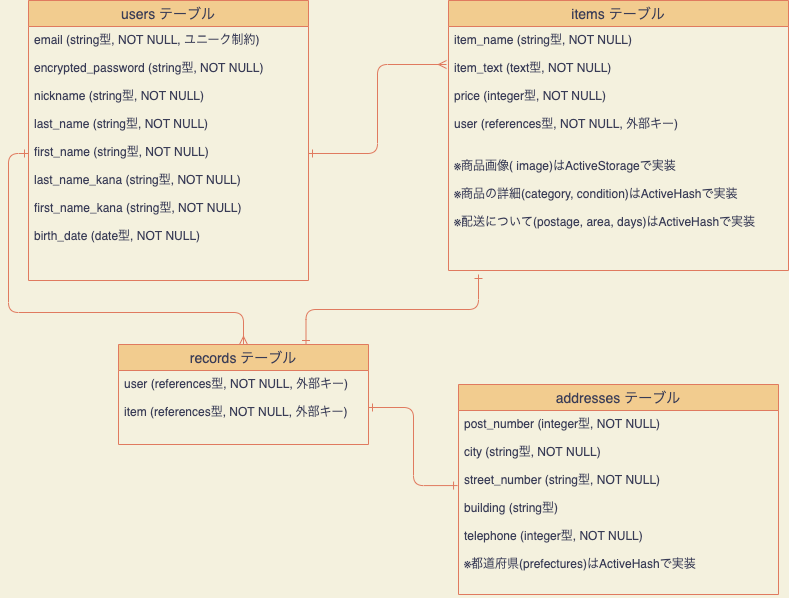
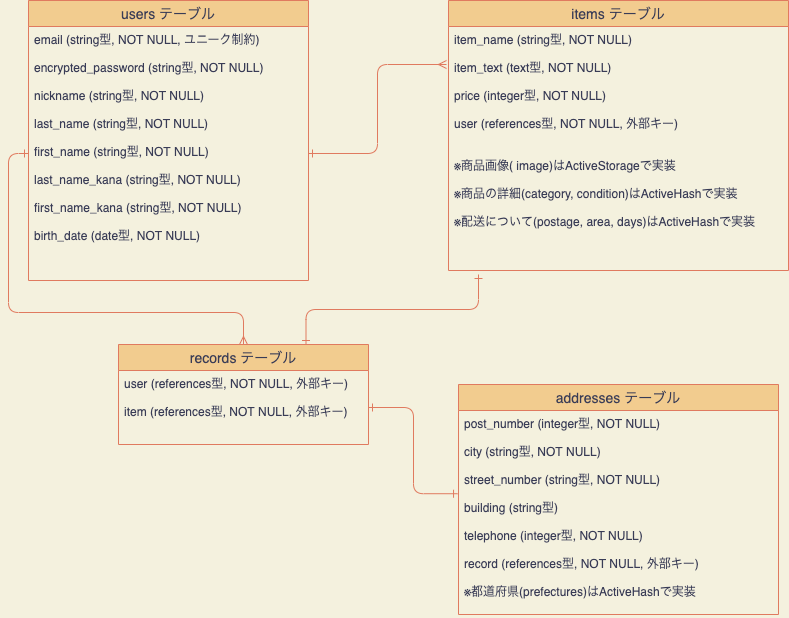
ER図、README修正

diff --git a/README.md b/README.md
@@ -23,17 +23,17 @@
 
 ## items テーブル
 
-| Column    | Type        | Options                        |
-| --------- | ----------- | ------------------------------ |
-| item_name | string      | null: false                    |
-| item_text | string      | null: false                    |
-| user      | references  | null: false, foreign_key: true |
-| category  | string      | null: false                    |
-| condition | string      | null: false                    |
-| postage   | string      | null: false                    |
-| area      | string      | null: false                    |
-| days      | string      | null: false                    |
-| price     | integer     | null: false                    |
+| Column       | Type        | Options                        |
+| ------------ | ----------- | ------------------------------ |
+| item_name    | string      | null: false                    |
+| item_text    | string      | null: false                    |
+| user         | references  | null: false, foreign_key: true |
+| category_id  | integer     | null: false                    |
+| condition_id | integer     | null: false                    |
+| postage_id   | integer     | null: false                    |
+| area_id      | integer     | null: false                    |
+| days_id      | integer     | null: false                    |
+| price        | integer     | null: false                    |
 
 
 ### Association
@@ -50,20 +50,20 @@
 
 ### Association
 - belongs_to :user
-- belongs_to :address
+- has_one :address
 - belongs_to :item
 
 ## addresses テーブル
 
-| Column        | Type    | Options     |
-| ------------- | ------- | ----------- |
-| post_number   | integer | null: false |
-| prefectures   | string  | null: false |
-| city          | string  | null: false |
-| street_number | string  | null: false |
-| building      | string  |             |
-| telephone     | integer | null: false |
-
+| Column           | Type       | Options                        |
+| ---------------- | ---------- | ------------------------------ |
+| post_number      | string     | null: false                    |
+| prefectures_id   | integer    | null: false                    |
+| city             | string     | null: false                    |
+| street_number    | string     | null: false                    |
+| building         | string     |                                |
+| telephone        | string     | null: false                    |
+| record           | references | null: false, foreign_key: true |
 
 ### Association
-- has_one :record
+- belongs_to :record
